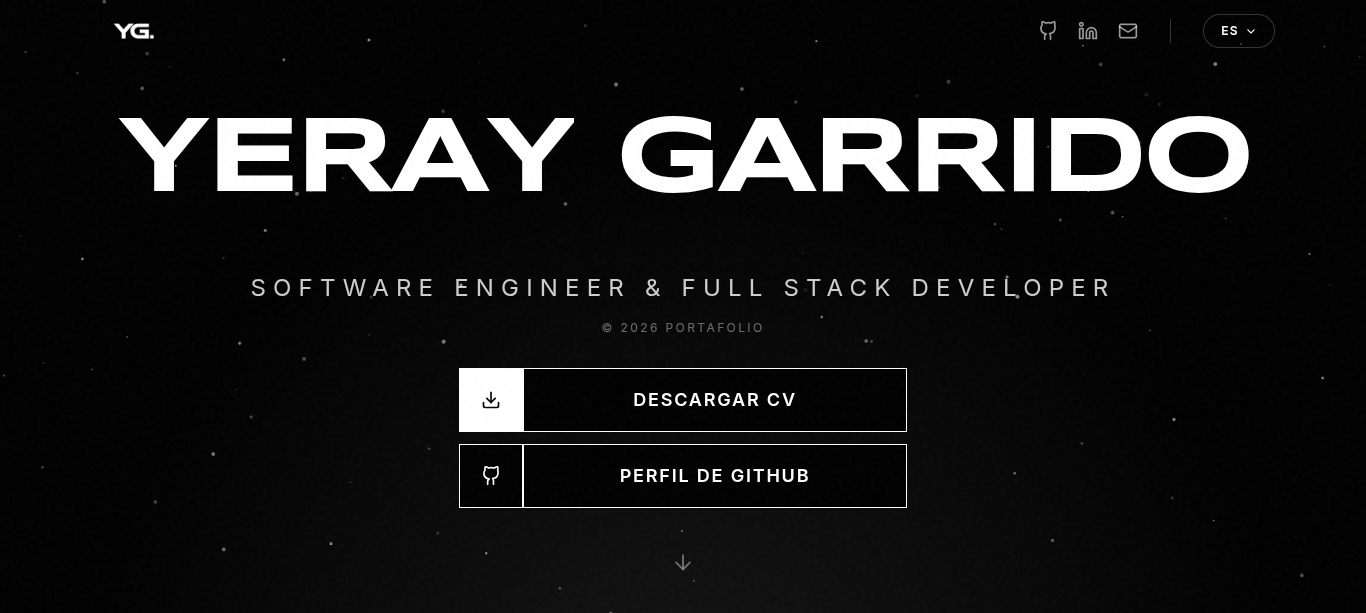
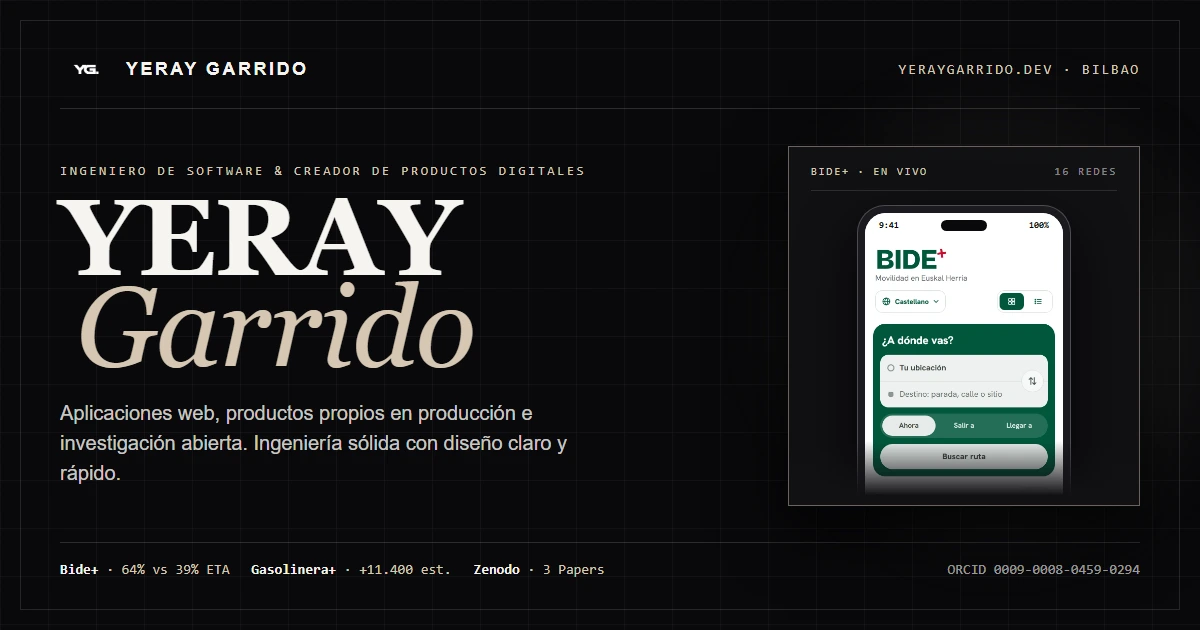
feat(brand): renovar og-image (portfolio y /papers/) y añadir cards profesionales Freelance y Empresas

diff --git a/index.html b/index.html
@@ -43,7 +43,8 @@
   <meta property="og:title" content="Yeray Garrido | Ingeniero de Software, Full Stack &amp; Open Science" />
   <meta property="og:description"
     content="Ingeniero de Software y Desarrollador Full Stack en Bilbao. Creador de Bide+ (16 redes) y Gasolinera+ (11.400+ estaciones), e investigador independiente con publicaciones en Zenodo." />
-  <meta property="og:image" content="https://yeraygarrido.dev/og-image.webp" />
+  <meta property="og:image" content="https://yeraygarrido.dev/og-image.png" />
+  <meta property="og:image:type" content="image/png" />
   <meta property="og:image:width" content="1200" />
   <meta property="og:image:height" content="630" />
   <meta property="og:image:alt" content="Yeray Garrido — Ingeniero de Software &amp; Desarrollador Full Stack" />
@@ -58,7 +59,7 @@
   <meta name="twitter:title" content="Yeray Garrido | Ingeniero de Software, Full Stack &amp; Open Science" />
   <meta name="twitter:description"
     content="Ingeniero de Software en Bilbao. Creador de Bide+ (bideplus.eus) y Gasolinera+ (gasolineraplus.app), backend PHP/Java/Python y publicaciones científicas en Zenodo." />
-  <meta name="twitter:image" content="https://yeraygarrido.dev/og-image.webp" />
+  <meta name="twitter:image" content="https://yeraygarrido.dev/og-image.png" />
   <meta name="twitter:image:alt" content="Yeray Garrido — Ingeniero de Software &amp; Desarrollador Full Stack" />
 
   <meta name="robots" content="index, follow, max-image-preview:large, max-snippet:-1, max-video-preview:-1" />
@@ -111,7 +112,7 @@
         "url": "https://yeraygarrido.dev/",
         "image": {
           "@type": "ImageObject",
-          "url": "https://yeraygarrido.dev/og-image.webp",
+          "url": "https://yeraygarrido.dev/og-image.png",
           "width": 1200,
           "height": 630
         },

diff --git a/public/papers/index.html b/public/papers/index.html
@@ -15,7 +15,11 @@
   <meta property="og:url" content="https://yeraygarrido.dev/papers/" />
   <meta property="og:title" content="Research Publications — Yeray Garrido Parra" />
   <meta property="og:description" content="Open-science publications, Zenodo DOIs, PDFs, and reproducible software systems by Yeray Garrido Parra." />
-  <meta property="og:image" content="https://yeraygarrido.dev/og-image.webp" />
+  <meta property="og:image" content="https://yeraygarrido.dev/papers/og-papers.png" />
+  <meta property="og:image:width" content="1200" />
+  <meta property="og:image:height" content="630" />
+  <meta name="twitter:card" content="summary_large_image" />
+  <meta name="twitter:image" content="https://yeraygarrido.dev/papers/og-papers.png" />
 
   <script type="application/ld+json">
   {
